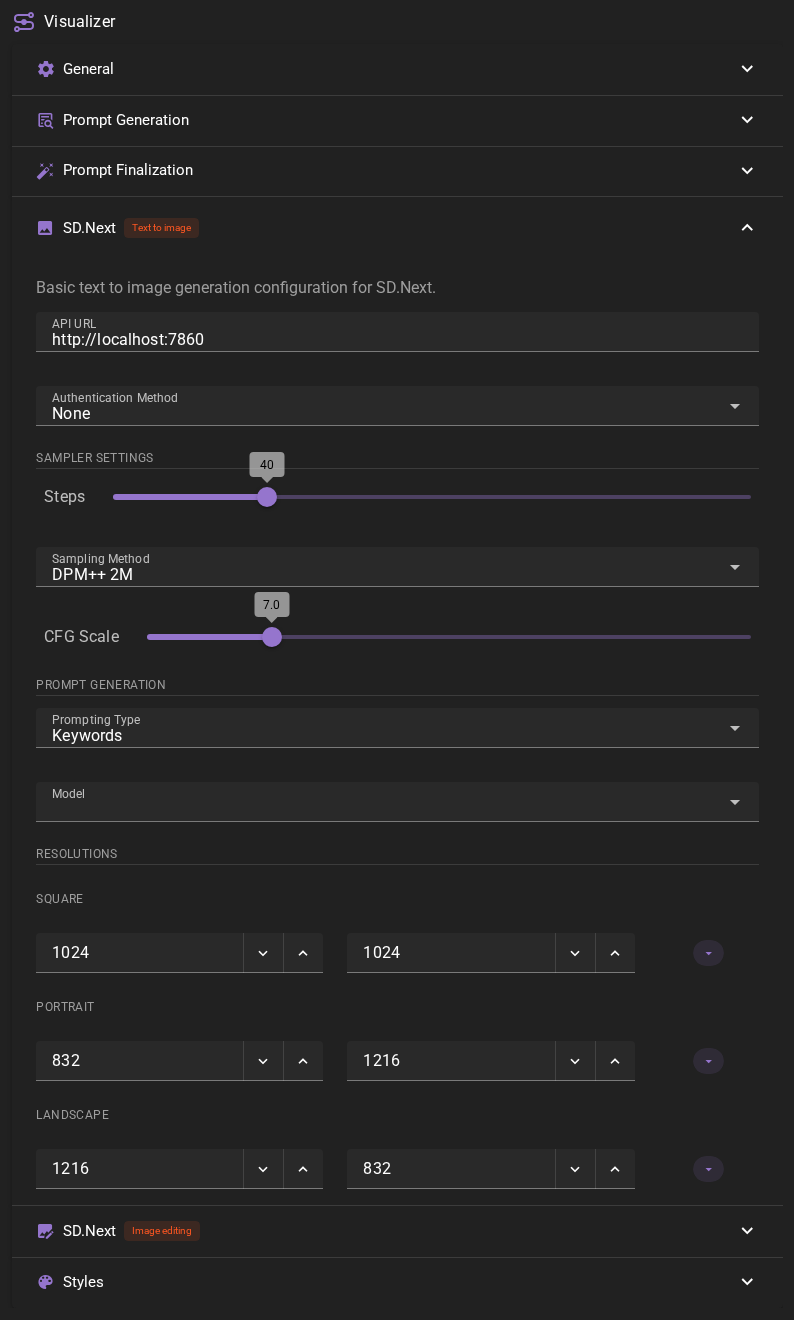
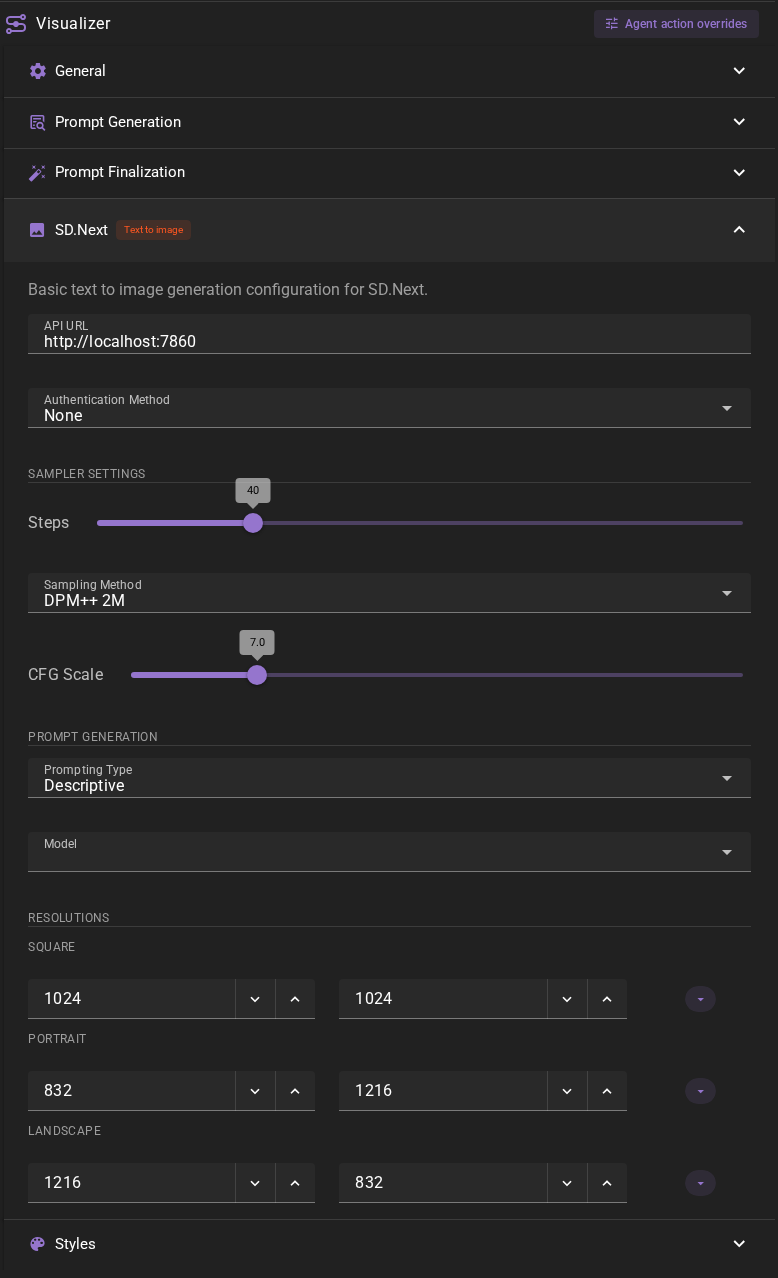
Finalize 0.40.0 config defaults (#981, #929) (#982)
* Finalize 0.40.0 config defaults: fast character generation, revision on with automatic off, 5 memory queries, descriptive visual prompts (#981, #929)

* Review round 1: changelog says saved configs keep values, revision gate tests, docs wording, SD.Next screenshot

diff --git a/tests/test_config_defaults.py b/tests/test_config_defaults.py
@@ -1,0 +1,167 @@
+"""Shipped defaults for the settings whose defaults changed in 0.40.0."""
+
+from unittest.mock import AsyncMock
+
+import pytest
+
+from talemate.agents.creator.assistant import ContextualGenerateEmission
+from talemate.agents.editor.revision import Issues
+from talemate.agents.visual.schema import PROMPT_TYPE, BackendBase, VisualPrompt
+from talemate.decisions.service import DecisionService
+from talemate.instance import get_agent
+from talemate.prompts import Prompt
+from talemate.scene_message import CharacterMessage, NarratorMessage
+
+
+def test_fast_character_generation_is_on_by_default(scene):
+    creator = get_agent("creator")
+
+    assert creator.cc_fast is True
+
+
+def test_long_term_memory_number_of_queries_defaults_to_five(scene):
+    field = (
+        get_agent("narrator")
+        .actions["use_long_term_memory"]
+        .config["number_of_queries"]
+    )
+
+    assert field.value == 5
+    assert (field.min, field.max) == (1, 10)
+
+
+def test_every_rag_agent_shares_the_number_of_queries_default(scene):
+    for agent_type in (
+        "conversation",
+        "narrator",
+        "director",
+        "editor",
+        "creator",
+        "summarizer",
+        "world_state",
+    ):
+        agent = get_agent(agent_type)
+        assert agent.long_term_memory_number_of_queries == 5, agent_type
+
+
+def test_editor_revision_is_on_with_automatic_revision_off(scene):
+    editor = get_agent("editor")
+
+    assert editor.revision_enabled is True
+    assert editor.revision_automatic_enabled is False
+
+
+def test_visual_prompt_models_default_to_descriptive():
+    assert VisualPrompt().prompt_type == PROMPT_TYPE.DESCRIPTIVE
+    assert BackendBase().prompt_type == PROMPT_TYPE.DESCRIPTIVE
+
+
+def test_visual_agent_prompt_types(scene):
+    visual = get_agent("visual")
+
+    assert visual.fallback_prompt_type == PROMPT_TYPE.DESCRIPTIVE
+    created = {
+        key: action.config["prompt_type"].value
+        for key, action in visual.actions.items()
+        if "prompt_type" in (action.config or {})
+    }
+    assert created == {
+        "comfyui_image_create": PROMPT_TYPE.DESCRIPTIVE,
+        "comfyui_image_edit": PROMPT_TYPE.DESCRIPTIVE,
+        "sdnext_image_create": PROMPT_TYPE.DESCRIPTIVE,
+        "sdnext_image_edit": PROMPT_TYPE.DESCRIPTIVE,
+        "automatic1111_image_create": PROMPT_TYPE.KEYWORDS,
+    }
+
+
+class RequestProbe:
+    """Records every LLM request and decision-model evaluation a test makes."""
+
+    def __init__(self, monkeypatch, scene):
+        self.prompts: list[str] = []
+        self.decisions: list[str] = []
+        self.client = scene.mock_client
+
+        async def prompt_request(template, *args, **kwargs):
+            self.prompts.append(template)
+            return "", {
+                "revision": "He checked the lantern.",
+                "fix": "He checked the lantern.",
+            }
+
+        async def decision_evaluate(service, *args, **kwargs):
+            self.decisions.append("evaluate")
+            raise AssertionError("the decision model must not be called")
+
+        monkeypatch.setattr(Prompt, "request", prompt_request)
+        monkeypatch.setattr(DecisionService, "evaluate", decision_evaluate)
+
+    @property
+    def total(self) -> int:
+        return len(self.prompts) + len(self.decisions) + len(self.client.prompt_history)
+
+
+@pytest.fixture
+def probe(scene, monkeypatch, isolate_signals):
+    editor = get_agent("editor")
+    monkeypatch.setattr(
+        editor,
+        "revision_collect_issues",
+        AsyncMock(return_value=Issues(repetition_log=["Repeated phrasing."])),
+    )
+    monkeypatch.setattr(editor, "_emit_revision_diff", AsyncMock())
+    isolate_signals("push_history", "push_history.after", "game_loop_new_message")
+    scene.signals["push_history"].connect(editor.revision_on_push)
+    return RequestProbe(monkeypatch, scene)
+
+
+async def play_turn(scene, editor):
+    """A normal turn: a character line and narration pushed to history, a
+    regenerated message, and a contextual generation."""
+    character = CharacterMessage(message="Bob: A raw response with repeated wording.")
+    narration = NarratorMessage(message="Rain fell on the harbour, again.")
+    await scene.push_history(character)
+    await scene.push_history(narration)
+    regenerated = await editor.maybe_revise_inplace(
+        CharacterMessage(message="Bob: Another response with repeated wording.")
+    )
+    emission = ContextualGenerateEmission(
+        agent=editor, template="x", response="A generated description."
+    )
+    await editor.revision_on_generation(emission)
+    return character, narration, regenerated, emission
+
+
+@pytest.mark.asyncio
+@pytest.mark.parametrize("decision_checks", [False, True])
+async def test_default_revision_settings_add_no_request_to_a_turn(
+    scene, probe, decision_checks
+):
+    editor = get_agent("editor")
+    revision_config = editor.actions["revision"].config
+    revision_config["revision_method"].value = "rewrite"
+    revision_config["decision_checks"].value = decision_checks
+
+    assert editor.revision_enabled is True
+    assert editor.revision_automatic_enabled is False
+    assert editor.revision_decision_checks_active is decision_checks
+
+    character, narration, regenerated, emission = await play_turn(scene, editor)
+
+    assert probe.total == 0, (probe.prompts, probe.decisions)
+    assert regenerated is False
+    assert [len(m.versions) for m in (character, narration)] == [1, 1]
+    assert emission.response == "A generated description."
+
+
+@pytest.mark.asyncio
+async def test_switching_automatic_revision_on_sends_requests(scene, probe):
+    """The probe sees a revision once Automatic revision is on."""
+    editor = get_agent("editor")
+    editor.actions["revision"].config["automatic_revision"].value = True
+    editor.actions["revision"].config["min_issues"].value = 1
+
+    character, *_ = await play_turn(scene, editor)
+
+    assert probe.total > 0
+    assert character.versions[-1].source == "revision"

diff --git a/src/talemate/agents/visual/backends/comfyui.py b/src/talemate/agents/visual/backends/comfyui.py
@@ -807,10 +807,10 @@ class ComfyUIMixin:
             "prompt_type": AgentActionConfig(
                 type="text",
                 title="Prompt generation",
-                value=PROMPT_TYPE.KEYWORDS,
+                value=PROMPT_TYPE.DESCRIPTIVE,
                 label="Prompting Type",
                 choices=PROMPT_TYPE.choices(),
-                description="The semantic style of the generated prompt. USe keywords for SDXL, SD51 and descriptive for flux and qwen.",
+                description="The semantic style of the generated prompt. Use keywords for SDXL and SD 1.5, and descriptive for Flux and Qwen.",
                 scene_overridable=False,
             ),
             "resolution_square": AgentActionConfig(
@@ -867,11 +867,6 @@ class ComfyUIMixin:
             ),
             config=cls.comfyui_shared_config(),
         )
-
-        # default prompt_type for edit should be DESCRIPTIVE
-        actions["comfyui_image_edit"].config[
-            "prompt_type"
-        ].value = PROMPT_TYPE.DESCRIPTIVE
 
         return actions
 

diff --git a/src/talemate/agents/visual/agent.py b/src/talemate/agents/visual/agent.py
@@ -161,7 +161,7 @@ class VisualAgent(
                 config={
                     "fallback_prompt_type": AgentActionConfig(
                         type="text",
-                        value=PROMPT_TYPE.KEYWORDS,
+                        value=PROMPT_TYPE.DESCRIPTIVE,
                         label="Fallback Prompt Type",
                         description="The prompt type to use for prompt only generation (if backends are not configured)",
                         note="This will be used for `prompt only` generation if no backends are configured",
@@ -388,7 +388,7 @@ class VisualAgent(
     @property
     def fallback_prompt_type(self) -> PROMPT_TYPE:
         value = self.resolve_config("prompt_generation", "fallback_prompt_type")
-        return PROMPT_TYPE(value) if value else PROMPT_TYPE.KEYWORDS
+        return PROMPT_TYPE(value) if value else PROMPT_TYPE.DESCRIPTIVE
 
     @property
     def prompt_generation_length(self) -> int:

diff --git a/src/talemate/agents/creator/character.py b/src/talemate/agents/creator/character.py
@@ -321,10 +321,10 @@ class CharacterCreatorMixin:
                         "(one request instead of several), but note that less "
                         "detail in the individual aspects is a possible failure "
                         "mode of this approach, and the model needs a large "
-                        "context window and reliable structured output. Keep "
+                        "context window and reliable structured output. Turn "
                         "this off for older or smaller models."
                     ),
-                    value=False,
+                    value=True,
                     title="Generation Mode",
                     quick_toggle=True,
                 ),

diff --git a/src/talemate/agents/visual/nodes.py b/src/talemate/agents/visual/nodes.py
@@ -311,7 +311,7 @@ class Prompt(Node):
             name="prompt_type",
             type="str",
             description="The type of prompt to create",
-            default="KEYWORDS",
+            default="DESCRIPTIVE",
             choices=PROMPT_TYPE.choice_values(),
         )
 
@@ -321,7 +321,7 @@ class Prompt(Node):
     def setup(self):
         self.add_input("prompt_type", socket_type="str", optional=True)
         self.add_input("parts", socket_type="list", optional=True)
-        self.set_property("prompt_type", "KEYWORDS")
+        self.set_property("prompt_type", "DESCRIPTIVE")
         self.add_output("prompt", socket_type="visual/prompt")
 
     async def run(self, state: GraphState):

diff --git a/src/talemate/agents/editor/revision.py b/src/talemate/agents/editor/revision.py
@@ -317,7 +317,7 @@ class RevisionMixin:
     @classmethod
     def add_actions(cls, actions: dict[str, AgentAction]):
         actions["revision"] = AgentAction(
-            enabled=False,
+            enabled=True,
             can_be_disabled=True,
             container=True,
             quick_toggle=True,
@@ -329,7 +329,7 @@ class RevisionMixin:
                     type="bool",
                     label="Automatic revision",
                     description="Enable / Disable automatic revision.",
-                    value=True,
+                    value=False,
                     quick_toggle=True,
                 ),
                 "automatic_revision_targets": AgentActionConfig(

diff --git a/tests/test_editor_revision.py b/tests/test_editor_revision.py
@@ -651,6 +651,7 @@ class TestRevisionOnGeneration:
 
     async def test_skipped_when_disabled(self, editor_scene):
         _, editor = editor_scene
+        editor.actions["revision"].config["automatic_revision"].value = True
         editor.actions["revision"].enabled = False
         called = []
 
@@ -811,6 +812,7 @@ class TestMaybeReviseInplace:
 
     async def test_skipped_when_disabled(self, editor_scene):
         _, editor = editor_scene
+        editor.actions["revision"].config["automatic_revision"].value = True
         editor.actions["revision"].enabled = False
 
         called = []

diff --git a/src/talemate/agents/visual/schema.py b/src/talemate/agents/visual/schema.py
@@ -184,7 +184,7 @@ class VisualPromptPart(pydantic.BaseModel):
 
 
 class VisualPrompt(pydantic.BaseModel):
-    prompt_type: PROMPT_TYPE = PROMPT_TYPE.KEYWORDS
+    prompt_type: PROMPT_TYPE = PROMPT_TYPE.DESCRIPTIVE
     parts: list[VisualPromptPart] = pydantic.Field(default_factory=list)
 
     @pydantic.computed_field
@@ -273,7 +273,7 @@ class BackendBase(pydantic.BaseModel):
     )
 
     gen_type: GEN_TYPE = GEN_TYPE.TEXT_TO_IMAGE
-    prompt_type: PROMPT_TYPE = PROMPT_TYPE.KEYWORDS
+    prompt_type: PROMPT_TYPE = PROMPT_TYPE.DESCRIPTIVE
 
 
 class Resolution(pydantic.BaseModel):

diff --git a/tests/test_character_card_extraction_options.py b/tests/test_character_card_extraction_options.py
@@ -75,6 +75,10 @@ def agents():
     the agents' own templates render against a real scene)."""
     scene = MockScene()
     handles = bootstrap_scene(scene)
+    # the split flow is what these tests exercise unless `fast_mode` asks for Fast
+    instance.get_agent("creator").actions["character_creation"].config[
+        "fast"
+    ].value = False
     return SimpleNamespace(
         creator=instance.get_agent("creator"),
         world_state=handles["world_state"],

diff --git a/tests/test_editor_decision_checks.py b/tests/test_editor_decision_checks.py
@@ -58,6 +58,7 @@ def editor_case(monkeypatch):
     agents = bootstrap_scene(scene)
     editor = agents["editor"]
     editor.actions["revision"].enabled = True
+    editor.actions["revision"].config["automatic_revision"].value = True
     editor.actions["revision"].config["revision_method"].value = "rewrite"
     editor.actions["revision"].config["decision_checks"].value = True
     previous = NarratorMessage(data["previous"])

diff --git a/src/talemate/agents/visual/backends/sdnext.py b/src/talemate/agents/visual/backends/sdnext.py
@@ -394,7 +394,7 @@ class SDNextMixin:
             "prompt_type": AgentActionConfig(
                 type="text",
                 title="Prompt generation",
-                value=PROMPT_TYPE.KEYWORDS,
+                value=PROMPT_TYPE.DESCRIPTIVE,
                 label="Prompting Type",
                 choices=PROMPT_TYPE.choices(),
                 description="Semantic style of the generated prompt.",

diff --git a/src/talemate/agents/memory/rag.py b/src/talemate/agents/memory/rag.py
@@ -121,7 +121,7 @@ class MemoryRAGMixin:
                     type="number",
                     label="Number of Queries",
                     description="The number of queries to use when retrieving context from the long term memory.",
-                    value=3,
+                    value=5,
                     min=1,
                     max=10,
                     step=1,
